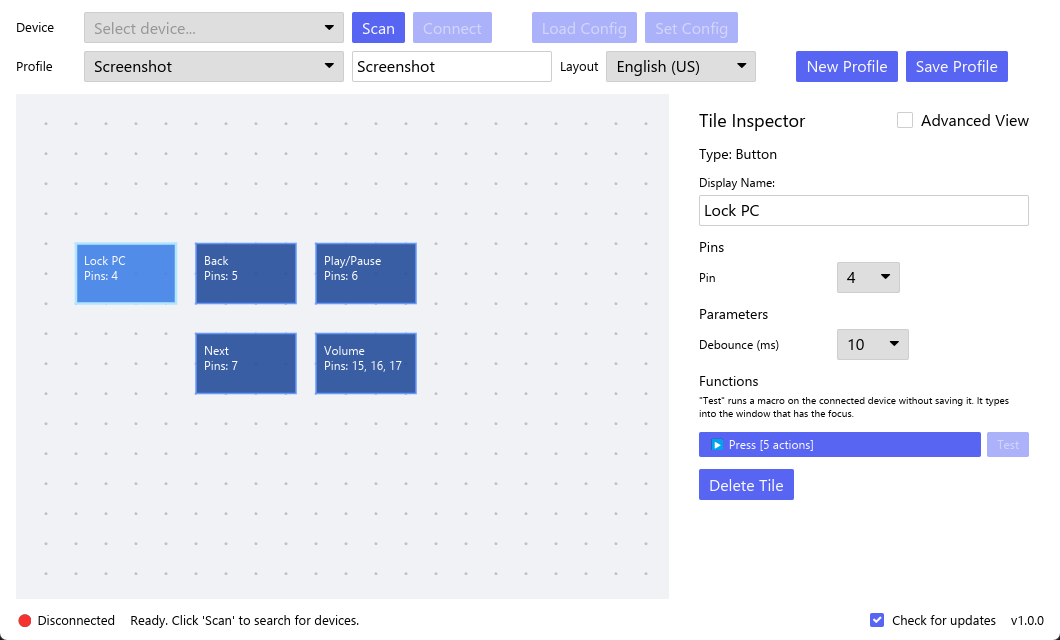
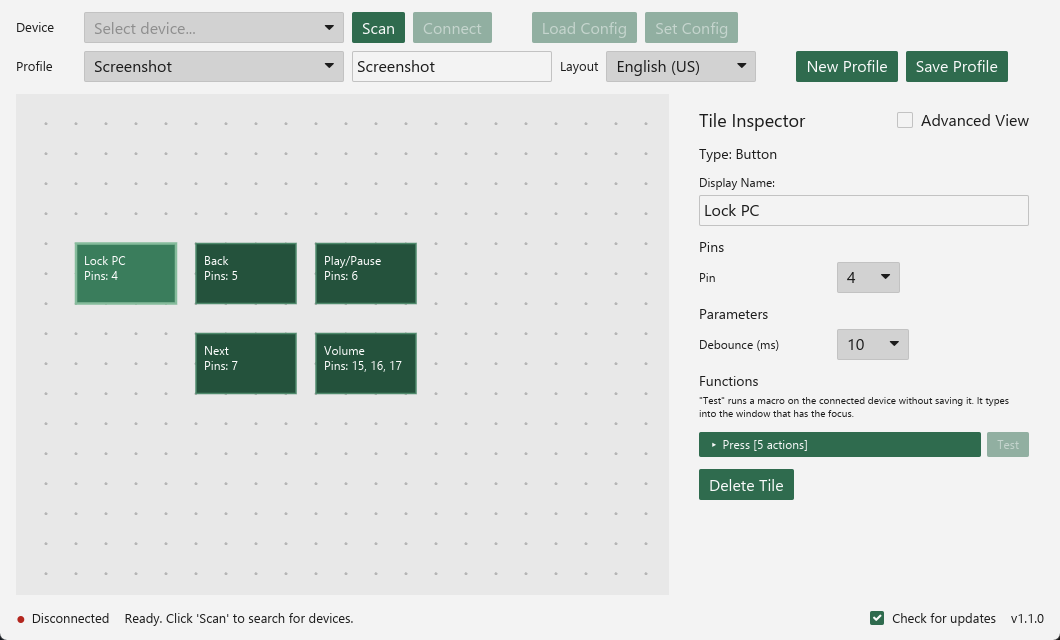
Update screenshots and changelog for the green theme

diff --git a/CHANGELOG.md b/CHANGELOG.md
@@ -6,6 +6,18 @@ Alle wichtigen Änderungen an FlexPad, gegliedert nach Version im Stil von [Keep
 
 ## [Unreleased]
 
+### English
+
+#### Changed
+- The configurator uses the green of the logo for buttons, selections and tiles; backgrounds stay neutral gray in light and dark mode. All colors are defined in one place (`flexpad-desktop/src/theme.rs`).
+- The connection state in the status bar is a colored dot instead of an emoji, and the arrows of the function list no longer show as blue emoji on Windows.
+
+### Deutsch
+
+#### Geändert
+- Der Konfigurator nutzt das Grün des Logos für Knöpfe, Auswahl und Kacheln; Hintergründe bleiben im hellen und dunklen Modus neutral grau. Alle Farben sind an einer Stelle festgelegt (`flexpad-desktop/src/theme.rs`).
+- Der Verbindungsstatus in der Statusleiste ist ein farbiger Punkt statt eines Emojis, und die Pfeile der Funktionsliste erscheinen unter Windows nicht mehr als blaue Emojis.
+
 ## [1.1.0] – 2026-11-01
 
 ### English
